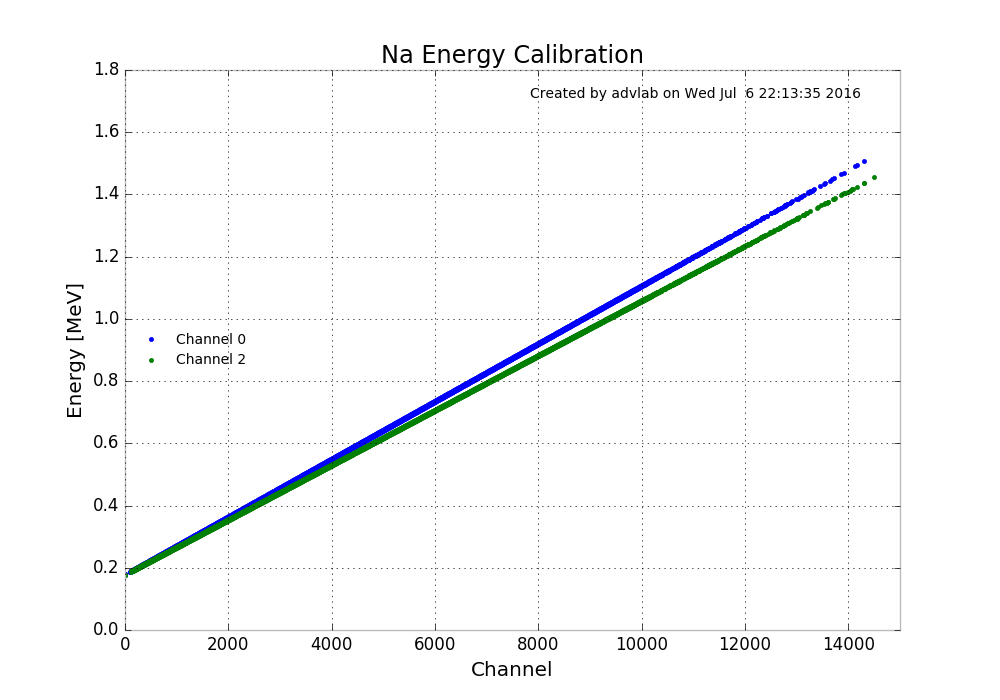
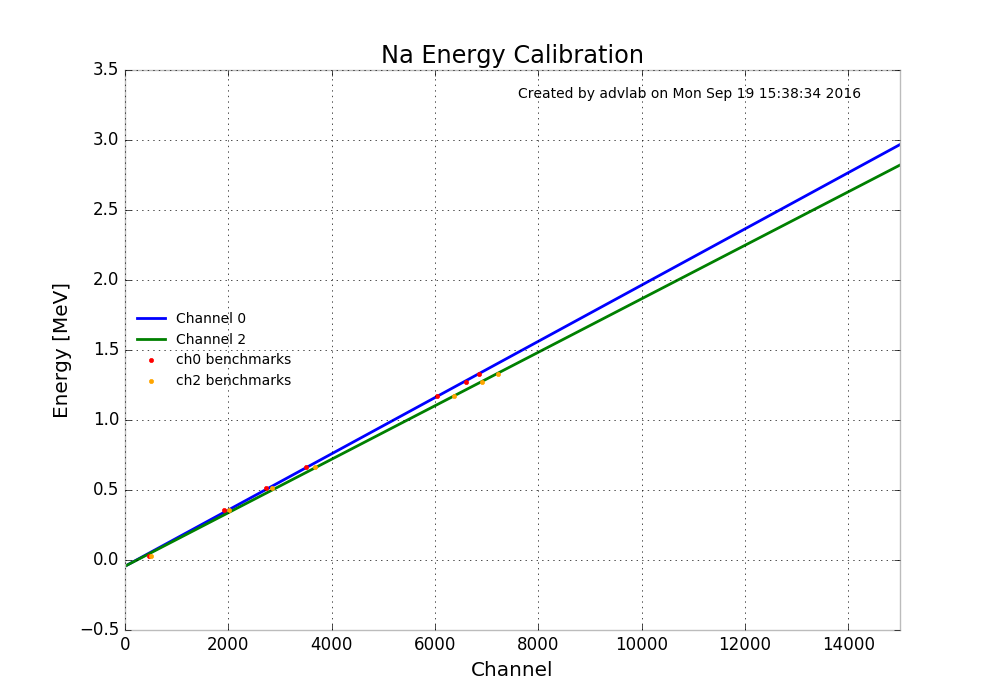
there was a bug in the channel2energy function. Fixed!

diff --git a/config/pet_analysis.py b/config/pet_analysis.py
@@ -1,7 +1,7 @@
 #!/usr/bin/env python                                                          #
 #                                                                              #
 # Autor: Michela Negro, University of Torino.                                  #
-#                                                                              # 
+#                                                                              #
 # This program is free software; you can redistribute it and/or modify         #
 # it under the terms of the GNU GengReral Public License as published by       #
 # the Free Software Foundation; either version 3 of the License, or            #
@@ -35,10 +35,15 @@ def draw_en_calib_curves(list_channel_names, list_channel_arrays, \
     plt.title('Na Energy Calibration')
     plt.xlabel('Channel')
     plt.ylabel('Energy [MeV]')
+    calib_ch0_x = [1917,466,2721,6594,3504,6044,6843]
+    calib_y = [0.356,0.03,0.511,1.27,0.662,1.17,1.33]
+    calib_ch2_x = [2022,496,2846,6906,3674,6362,7214]
     for i, item in enumerate(list_energy_arrays):
         _channel, _index = np.unique(list_channel_arrays[i], return_index=True)
         item = item[_index]
-        plt.plot(_channel, item, '.', label=list_channel_names[i])
+        plt.plot(_channel, item, '-', label=list_channel_names[i])
+    plt.plot(calib_ch0_x, calib_y, '.', color='red', label='ch0 benchmarks')
+    plt.plot(calib_ch2_x, calib_y, '.', color='orange', label='ch2 benchmarks')
     plt.xlim(0.,TOT_NUM_EN_CH)
     plt.legend(loc='center left', shadow=False, fontsize='small')
     overlay_tag()

diff --git a/utils/gAnalysisUtils.py b/utils/gAnalysisUtils.py
@@ -121,19 +121,20 @@ def channel2energy(_e, ch_num):
            while the sencond is the corresponding energy [given in MeV].
     """
     ch, en = [], [] 
-    calib_ch0 = [(1917,0.356),(466,0.08),(2721,0.511),(6594,1.27),\
+    calib_ch0 = [(1917,0.356),(466,0.03),(2721,0.511),(6594,1.27),\
                  (3504,0.662),(6044,1.17),(6843,1.33)]
-    calib_ch2 = [(2022,0.356),(496,0.08),(2846,0.511),(6906,1.27),\
+    calib_ch2 = [(2022,0.356),(496,0.03),(2846,0.511),(6906,1.27),\
                  (3674,0.662),(6362,1.17),(7214,1.33)]
     if ch_num == 0:
-        ch.append([x[0] for x in calib_ch0][0])
-        en.append([x[1] for x in calib_ch0][0])
+        ch.append([x[0] for x in calib_ch0])
+        en.append([x[1] for x in calib_ch0])
     if ch_num == 2:
-        ch.append([x[0] for x in calib_ch2][0])
-        en.append([x[1] for x in calib_ch2][0])
-    ch = np.array(ch)
-    en = np.array(en)
+        ch.append([x[0] for x in calib_ch2])
+        en.append([x[1] for x in calib_ch2])
+    ch = np.array(ch[0])
+    en = np.array(en[0])
     p = np.polyfit(ch, en, 1)
+    logger.info('Energy fit parameters: [0]=%f, [1]=%f'%(p[0], p[1]))
     en_array = p[1] + _e*p[0]
     return en_array
 
